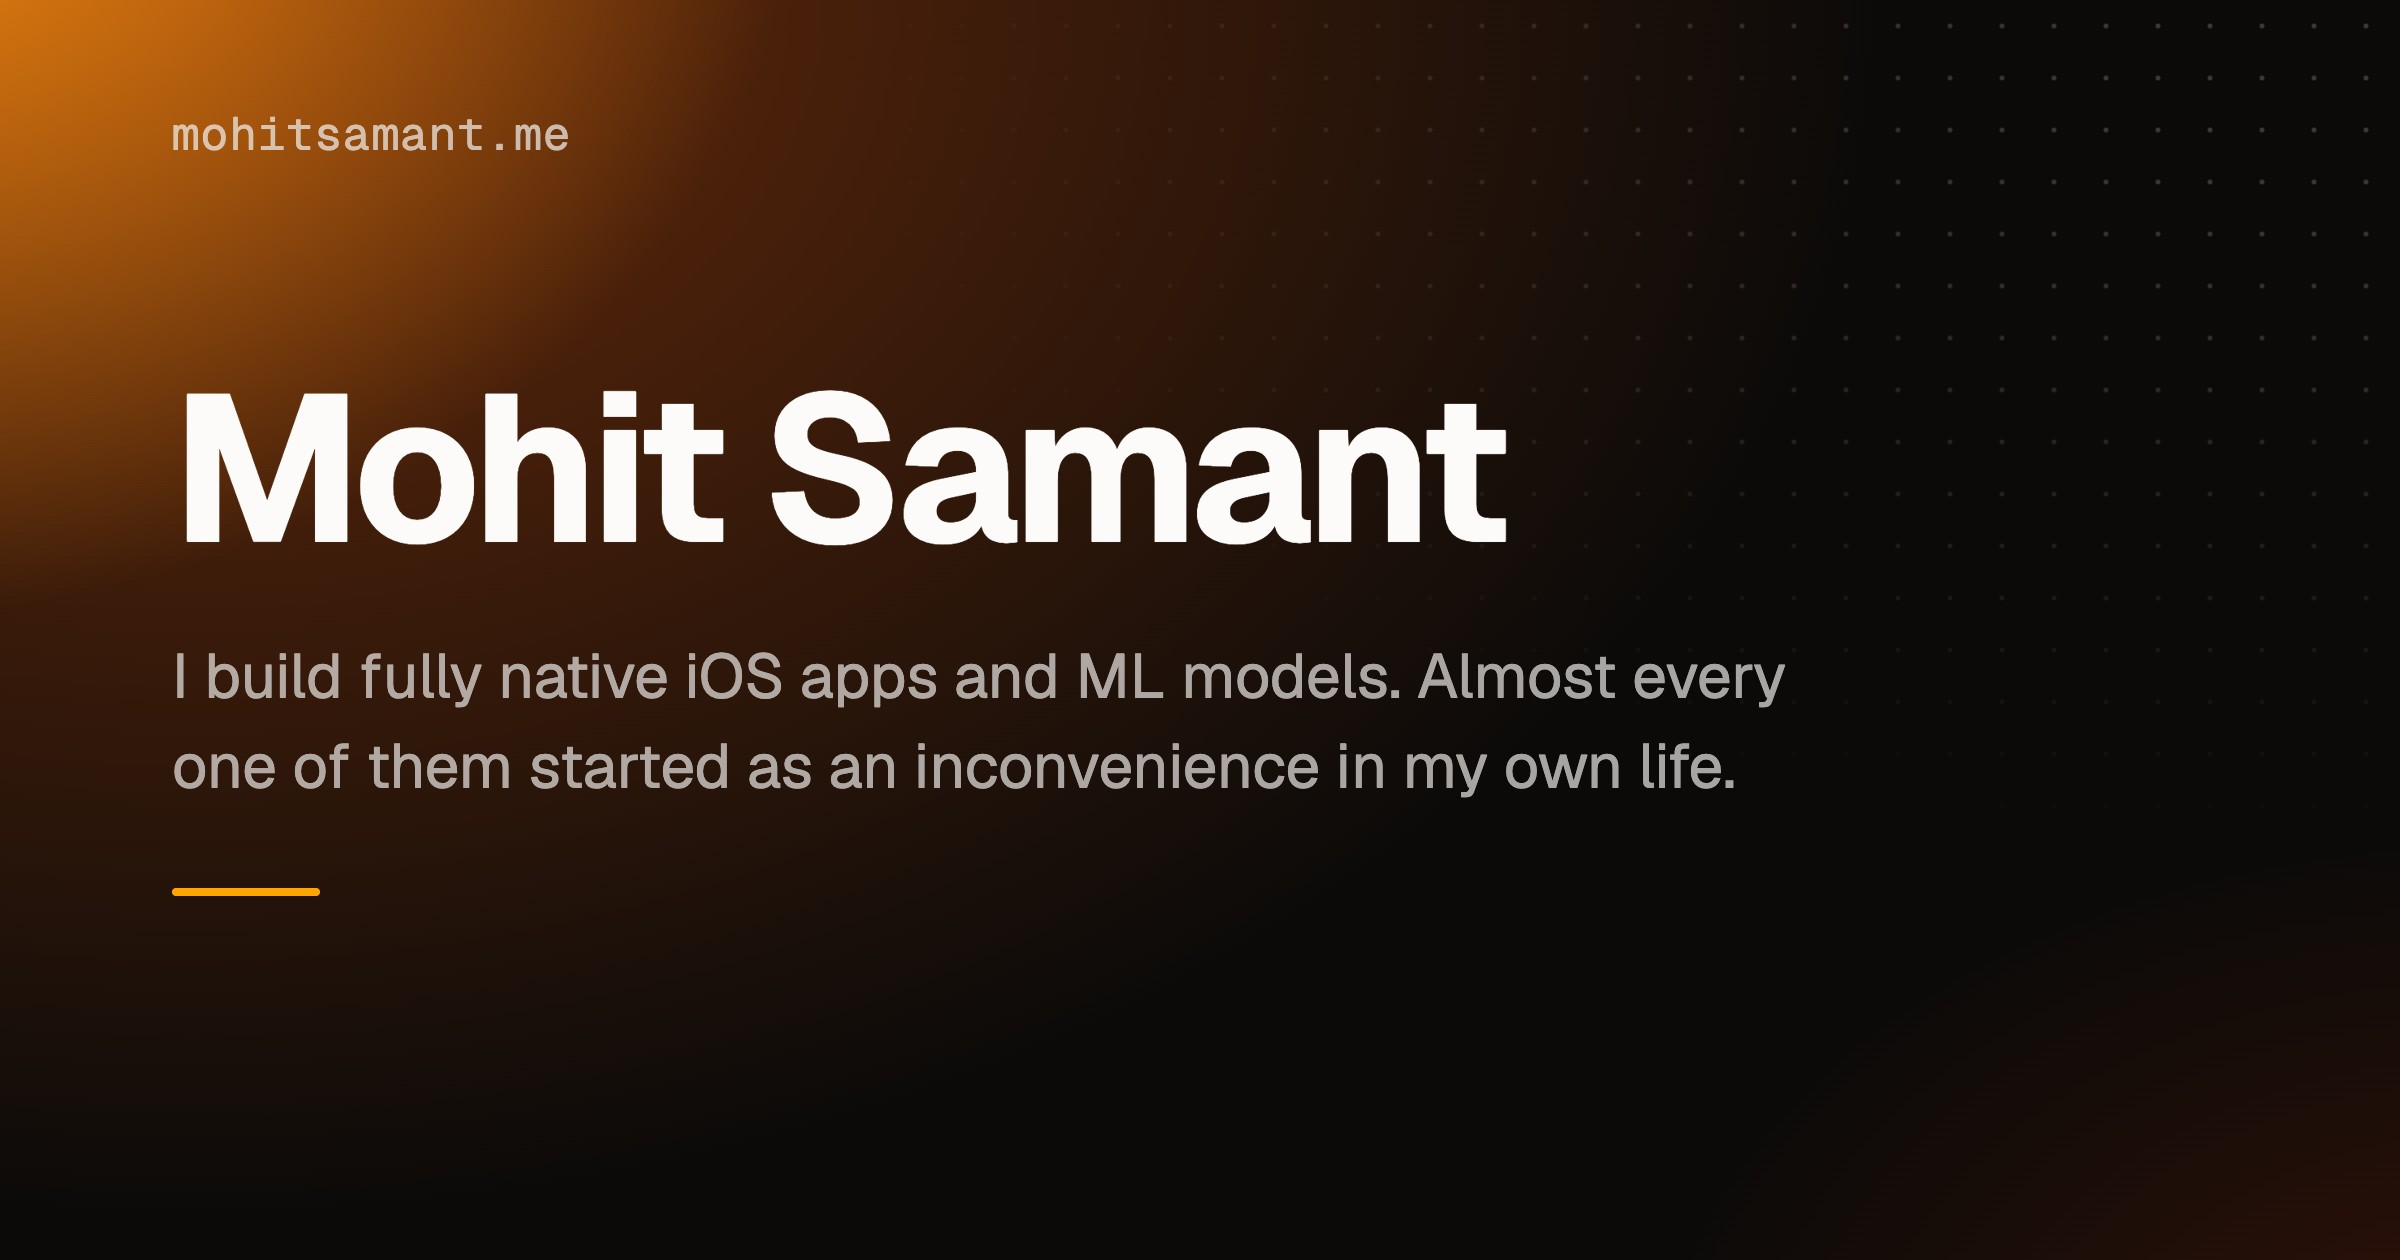
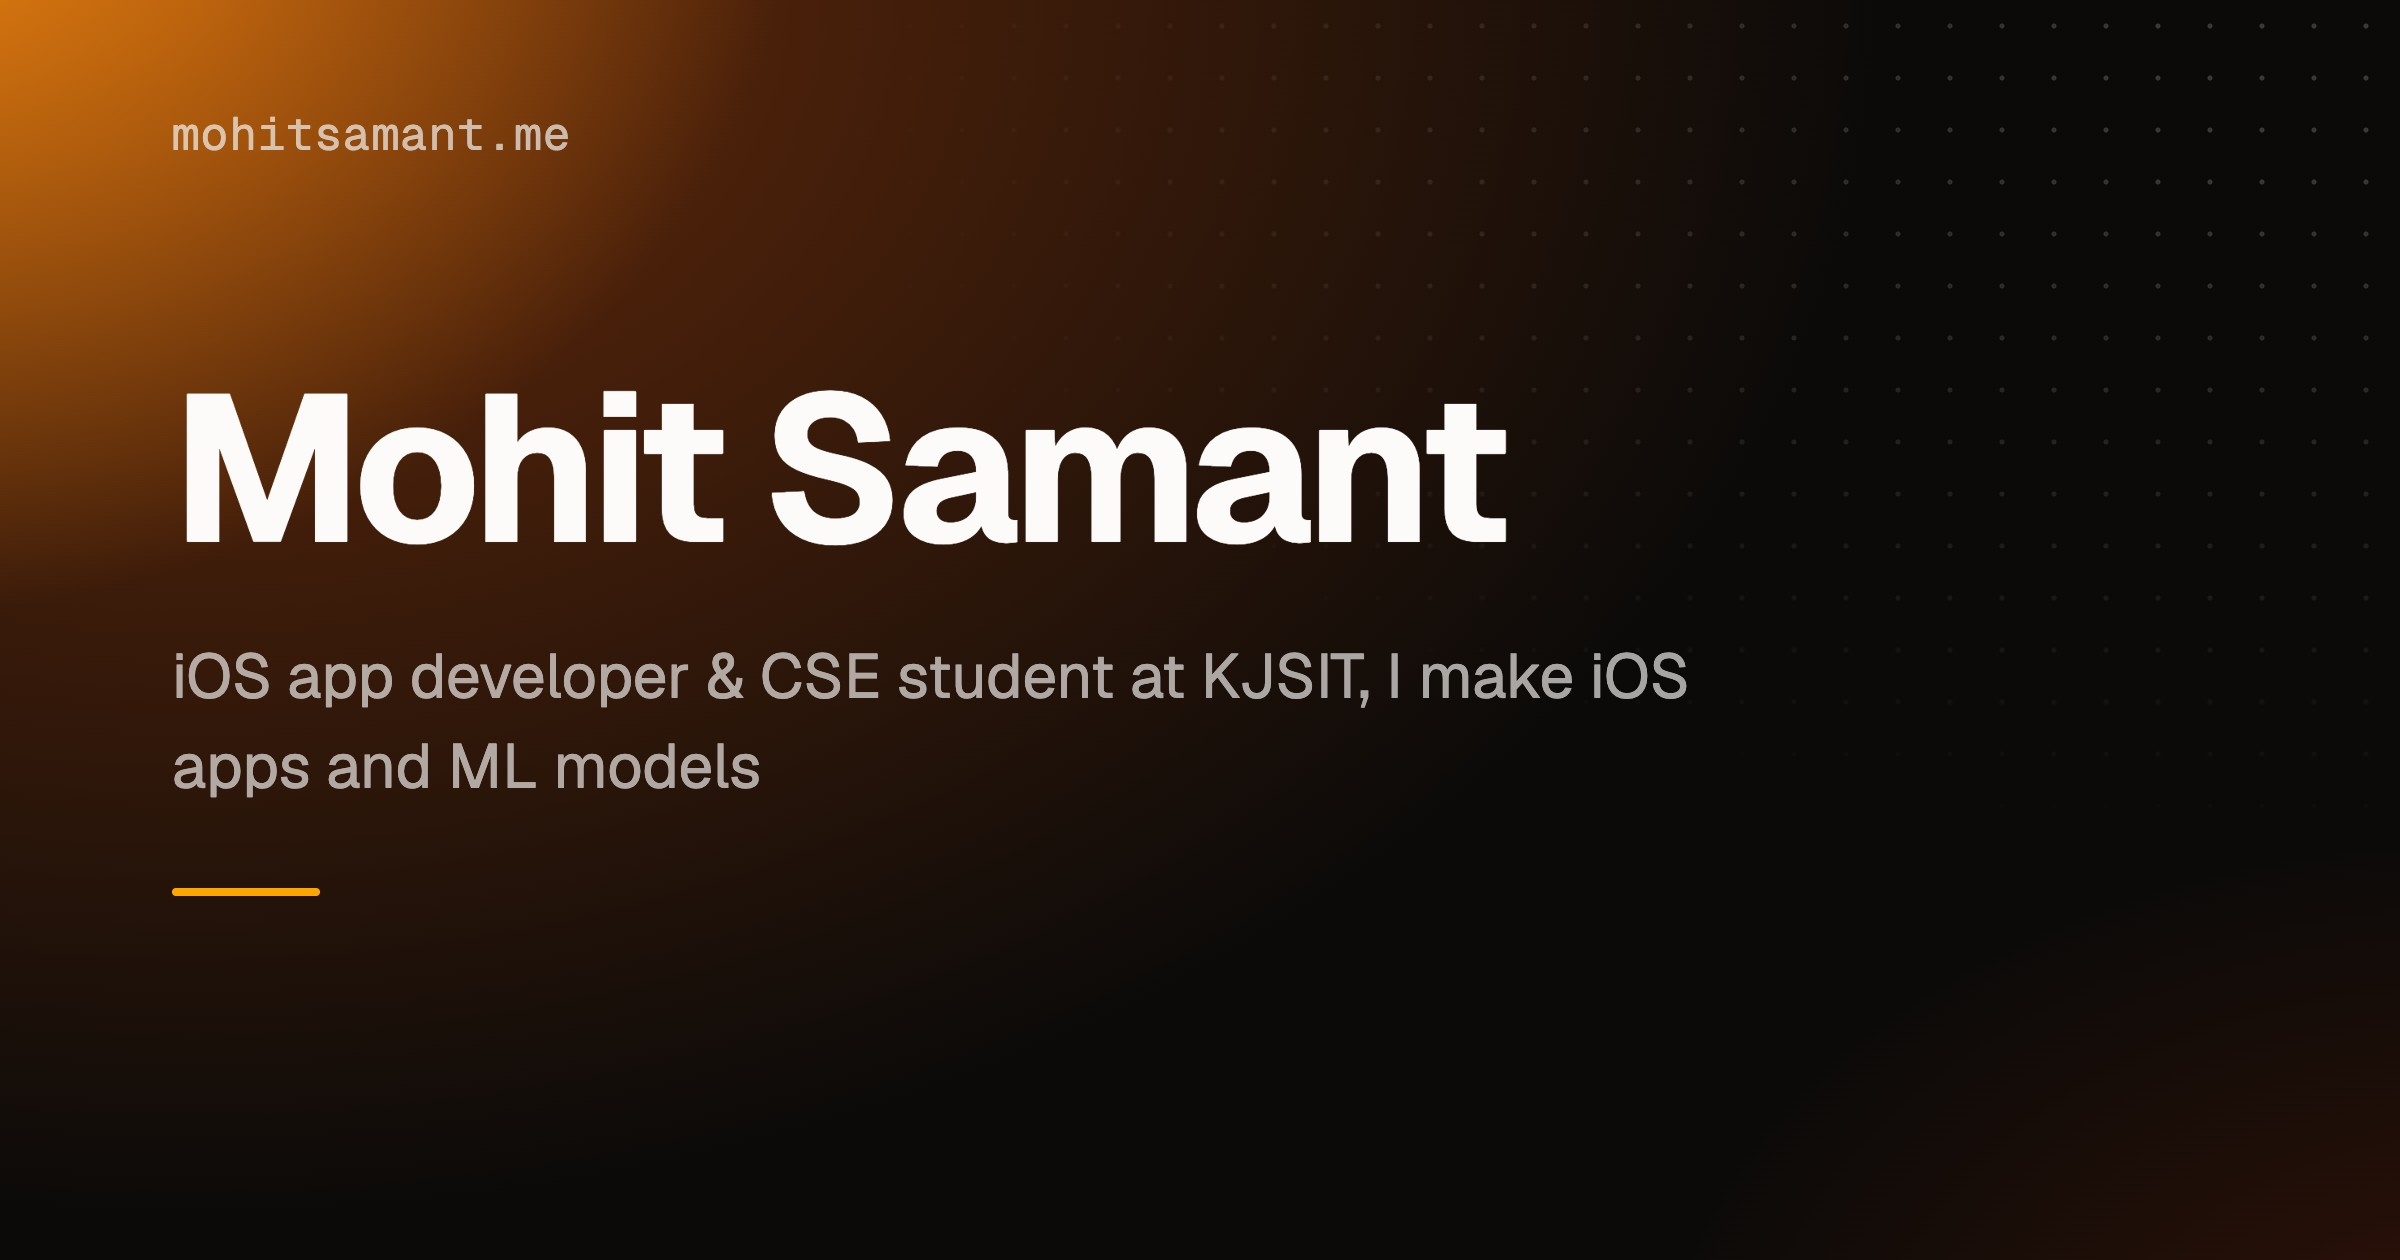
Write a description for the link preview, separate from the intro
"Mohit Samant - iOS app developer & CSE student at KJSIT, I make iOS
apps and ML models" is now what search results and link previews get.

It is its own field rather than a rewrite of `intro`, because the two
are read in different places. This one arrives with no context — a card
in a chat, a row of search results — so it has to say who and what up
front. `intro` sits directly under a heading that already says the name,
where opening on "Mohit Samant -" would say it twice in two lines. The
page keeps the sentence it had.

The banner takes the same line minus the leading name, for the same
reason: it prints "Mohit Samant" at 104px immediately above, and the
subtitle repeating it would be the third time in one image.

Changed region(s): [[0.0625, 0.5881, 0.7188, 0.65], [0.0625, 0.4952, 0.75, 0.5571]]

diff --git a/src/lib/config.ts b/src/lib/config.ts
@@ -7,11 +7,20 @@ export const site = {
   name: "Mohit Samant",
   // Used for <title>, OG tags and canonical URLs.
   url: "https://mohitsamant.me",
+  /**
+   * The line search results and link previews get. Separate from `intro`
+   * because the two are read in different places: this one arrives with no
+   * context and has to say who and what up front, while `intro` sits directly
+   * under a heading that already gives the name.
+   *
+   * Everything after the name is also printed into the link-preview banner at
+   * src/app/opengraph-image.jpg, which is a flat image and cannot read this —
+   * change one and the other goes stale without anything failing. Regenerate
+   * the banner when this changes.
+   */
+  description:
+    "Mohit Samant - iOS app developer & CSE student at KJSIT, I make iOS apps and ML models",
   // The two sentences a visitor reads first. Keep it concrete and in your voice.
-  //
-  // Also printed into the link-preview banner at src/app/opengraph-image.jpg,
-  // which is a flat image and cannot read this — change one and the other goes
-  // stale without anything failing. Regenerate the banner when this changes.
   intro:
     "I build fully native iOS apps and ML models. Almost every one of them started as an inconvenience in my own life.",
   /** Words in `intro` painted in the accent. Matched whole-word, case-insensitive. */

diff --git a/src/app/layout.tsx b/src/app/layout.tsx
@@ -12,15 +12,15 @@ const mono = Geist_Mono({ subsets: ["latin"], variable: "--font-geist-mono" });
 export const metadata: Metadata = {
   metadataBase: new URL(site.url),
   title: { default: site.name, template: `%s · ${site.name}` },
-  description: site.intro,
+  description: site.description,
   openGraph: {
     title: site.name,
-    description: site.intro,
+    description: site.description,
     url: site.url,
     siteName: site.name,
     type: "website",
   },
-  twitter: { card: "summary_large_image", title: site.name, description: site.intro },
+  twitter: { card: "summary_large_image", title: site.name, description: site.description },
 };
 
 export default function RootLayout({ children }: { children: React.ReactNode }) {
